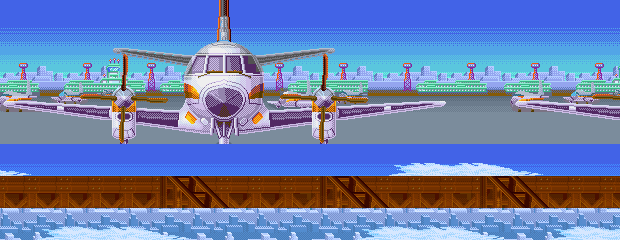
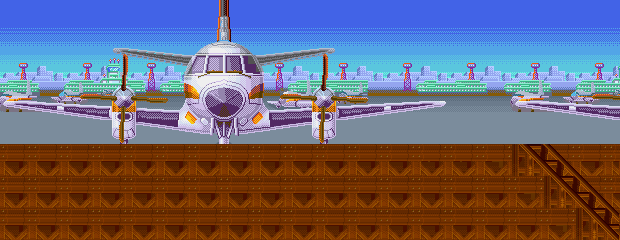
플레이어 대시 기능

Changed region(s): [[0.0, 0.5833, 1.0, 1.0]]

diff --git a/Ninja_BaseBall/Scenes/SceneDev1.cpp b/Ninja_BaseBall/Scenes/SceneDev1.cpp
@@ -112,7 +112,7 @@ void SceneDev1::UpdateGame(float dt)
     float camCenter1 = stage->stageBound1_1.getGlobalBounds().left + (stage->stageBound1_1.getGlobalBounds().width / 2);
     float camCenter2 = stage->stageBound1_2.getGlobalBounds().left + (stage->stageBound1_2.getGlobalBounds().width / 2);
     float camCenter3 = stage->stageBound1_3.getGlobalBounds().left + (stage->stageBound1_3.getGlobalBounds().width / 2);
-    float camCenter4 = stage->stageBound1_3.getGlobalBounds().left + (stage->stageBound1_3.getGlobalBounds().width / 2);
+    float camCenter4 = stage->stageBound1_4.getGlobalBounds().left + (stage->stageBound1_4.getGlobalBounds().width / 2);
 
     if (!(stage->clearStage1_1) && xMax >= camCenter1)
     {
@@ -138,6 +138,7 @@ void SceneDev1::UpdateGame(float dt)
     worldView.setCenter(worldViewCenter);
 
     stage->stageBack1.SetPosition({ worldViewCenter.x * 0.3f, 0.f });
+    stage->stageBack2.SetPosition({ worldViewCenter.x * 0.3f + 500.f, 0.f });
 
 
     if (InputManager::GetKeyDown(sf::Keyboard::Num1))

diff --git a/Ninja_BaseBall/GameObjects/Stage1.cpp b/Ninja_BaseBall/GameObjects/Stage1.cpp
@@ -77,7 +77,8 @@ void Stage1::Reset()
 		stageBound1_4.setFillColor(sf::Color::Transparent);
 	}
 
-	stageBack1.SetPosition({0.f, 0.f});
+	stageBack1.SetPosition({ 0.f, 0.f });
+	stageBack2.SetPosition({ 566.f, 0.f });
 
 
 
@@ -91,6 +92,7 @@ void Stage1::Update(float dt)
 void Stage1::Draw(sf::RenderWindow& window)
 {
 	stageBack1.Draw(window);
+	stageBack2.Draw(window);
 
 	SpriteGo::Draw(window);
 	stageNormal.Draw(window);
@@ -105,11 +107,11 @@ void Stage1::Draw(sf::RenderWindow& window)
 	if (SCENE_MANAGER.GetDeveloperMode())
 	{
 		window.draw(groundBound);
-
+		window.draw(stageBound1_1);
 		window.draw(stageBound1_2);
 		window.draw(stageBound1_3);
 		window.draw(stageBound1_4);
 	}
-	window.draw(stageBound1_1);
+
 
 }

diff --git a/Ninja_BaseBall/Player.h b/Ninja_BaseBall/Player.h
@@ -10,13 +10,24 @@ class Player :
 protected:
 	Animator animator;
 
-	float speed = 100.f;
+	float speed = 50.f;
+	float dashSpeed = 300.f;
 
 	sf::Vector2f velocity;
 
 	bool isGrounded = true;
 
 	SceneDev1* sceneDev1 = nullptr;
+
+	float leftDashTime = 0.f;
+	float dashTimer = 1.5f;
+	bool dashReady = false;
+	bool isDashing = false;
+
+	float RightDashTime = 0.f;
+	bool dashReady = false;
+	bool isDashing = false;
+
 
 public:
 	Player(const std::string& name = "");
